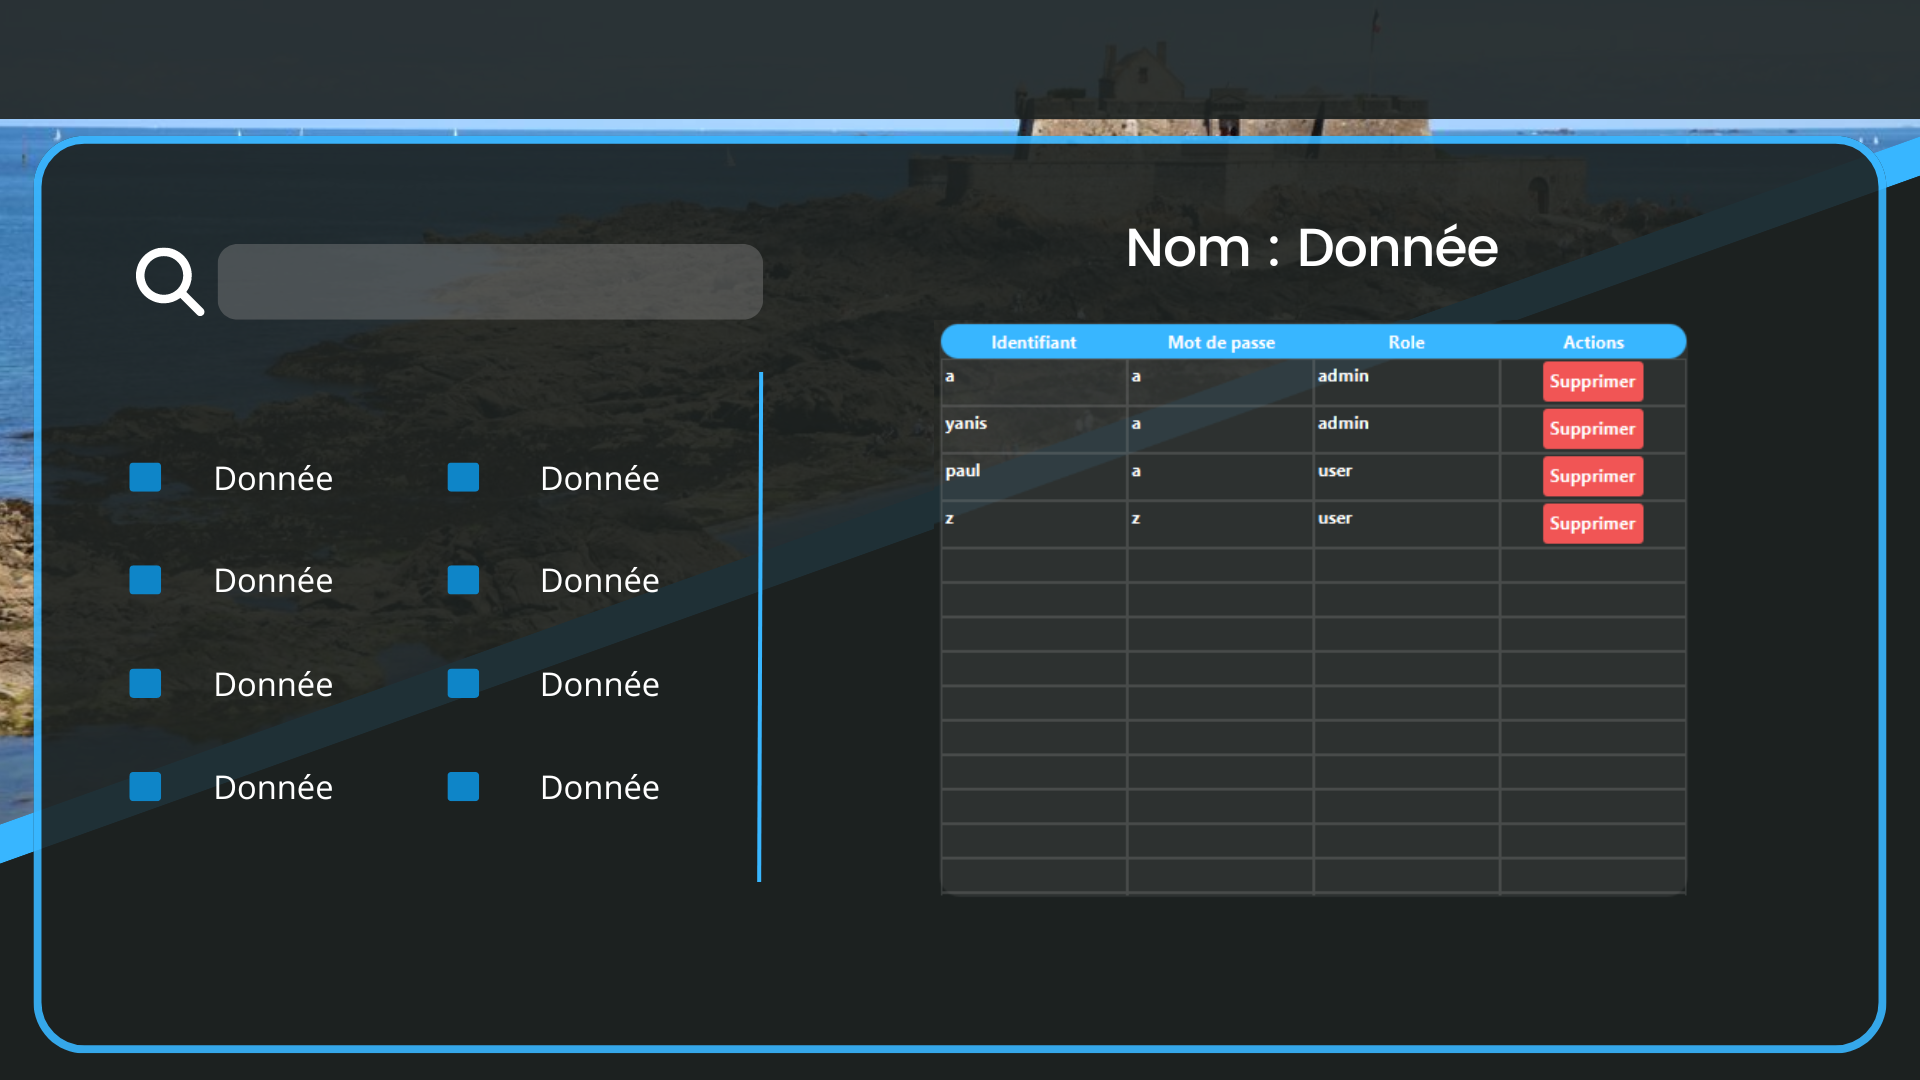
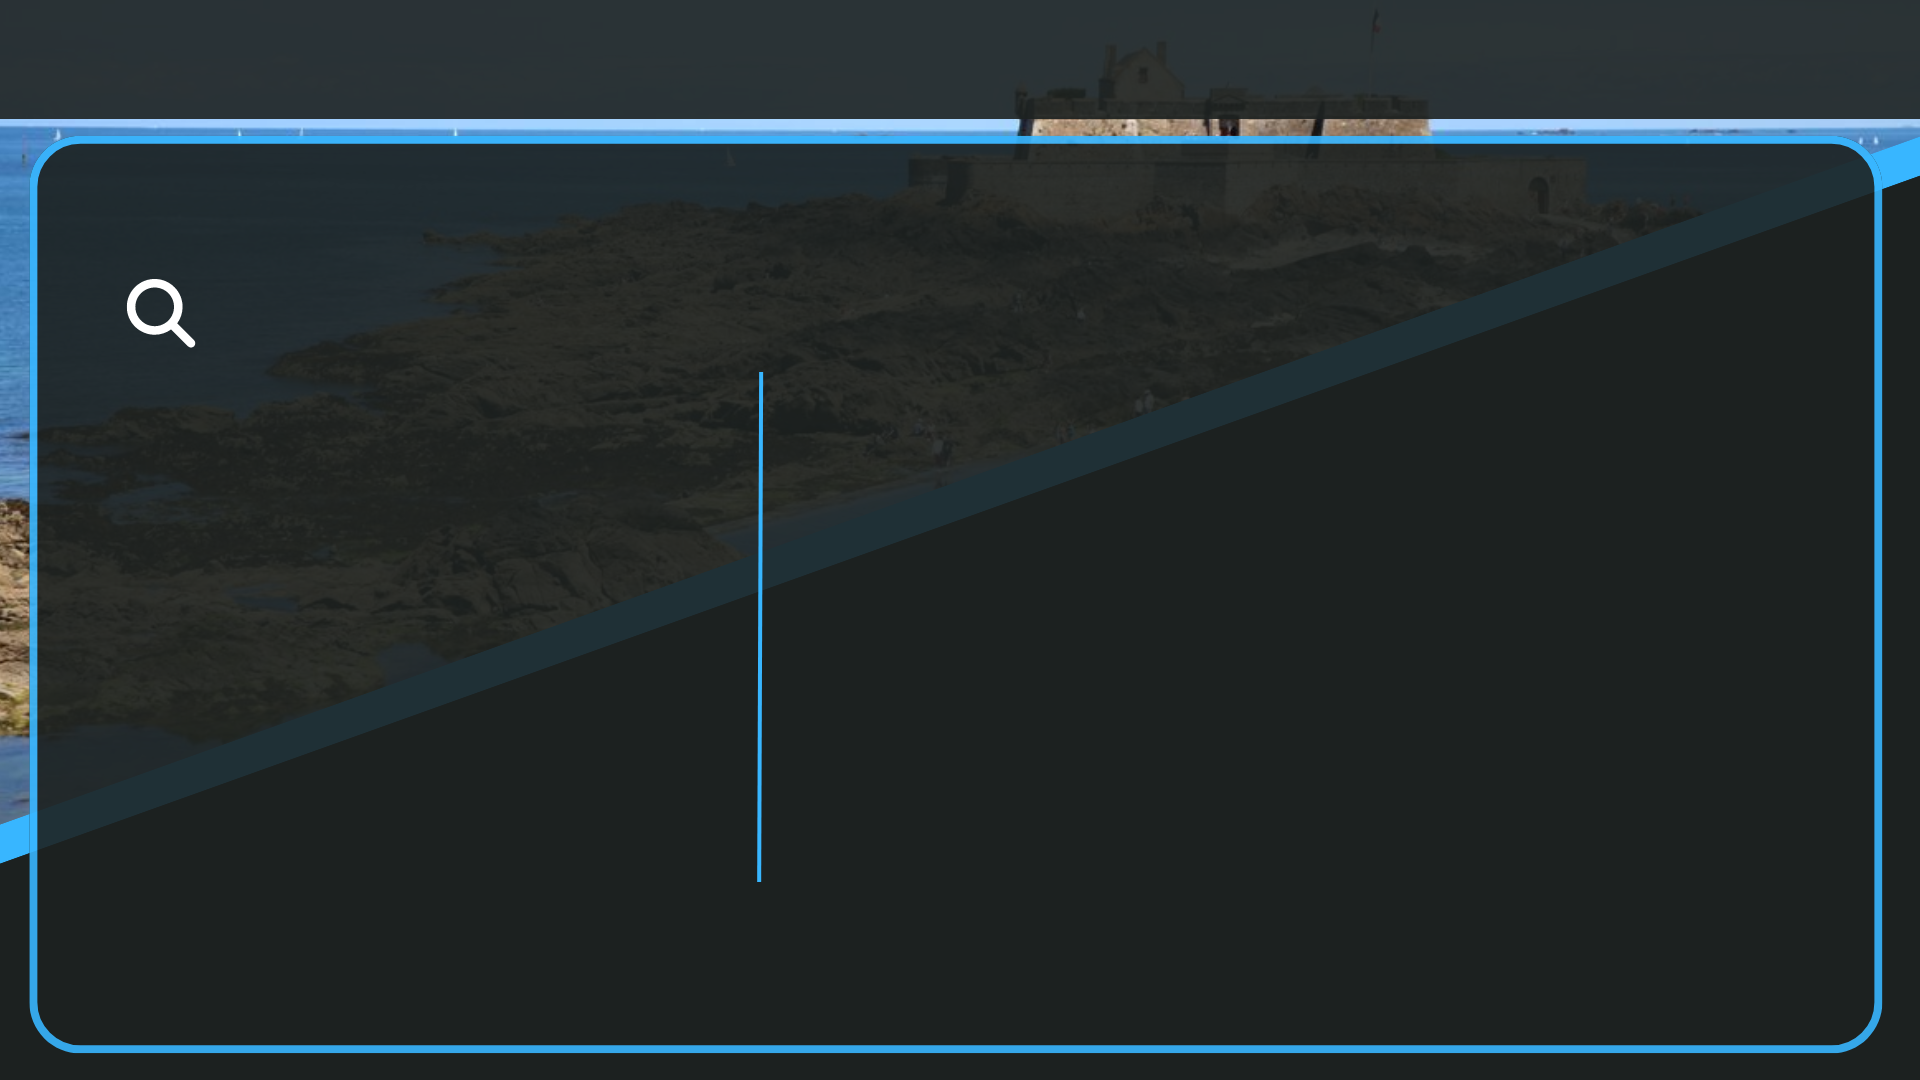
donnee

diff --git a/Application/AppVS/class/resource/app.css b/Application/AppVS/class/resource/app.css
@@ -179,6 +179,28 @@
     -fx-font-weight: bold;
 }
 
+.table-view .scroll-bar {
+    -fx-background-color: #8b8b8b00;
+}
+
+/* Style the thumb (the draggable part of the scrollbar) */
+.table-view .scroll-bar .thumb {
+    -fx-background-color: #888;
+    -fx-background-radius: 10px;
+}
+
+/* Style the track (the "path" the thumb slides on) */
+.table-view .scroll-bar .track {
+    -fx-background-color: #555;
+    -fx-background-radius: 10px;
+}
+
+/* Style the buttons at the ends of the scrollbar (if present) */
+.table-view .scroll-bar .increment-button,
+.table-view .scroll-bar .decrement-button {
+    -fx-background-color: #666;
+}
+
 .table-view .table-cell:selected {
     -fx-background-color: #1f6892;
     -fx-text-fill: #ffffff;
@@ -191,4 +213,31 @@
     -fx-font-weight: bold;
     -fx-padding: 5px;
     -fx-border-radius: 5px;
+}
+
+/* Style for CheckBox */
+.my-checkbox {
+    -fx-text-fill: #ffffff;
+    -fx-font-size: 15px;
+    -fx-font-weight: bold;
+}
+
+.my-checkbox .box {
+    -fx-background-color: #38B6FF;
+    -fx-padding: 5px;
+    -fx-border-radius: 5px;
+}
+
+.my-checkbox .box:hover {
+    -fx-background-color: #1f6892;
+}
+
+.my-checkbox .box:selected {
+    -fx-background-color: #1f6892;
+}
+
+.my-label-titre {
+    -fx-font-size: 30px;
+    -fx-font-weight: bold;
+    -fx-text-fill: #ffffff;
 }

diff --git a/Application/AppVS/src/resource/app.css b/Application/AppVS/src/resource/app.css
@@ -179,6 +179,28 @@
     -fx-font-weight: bold;
 }
 
+.table-view .scroll-bar {
+    -fx-background-color: #8b8b8b00;
+}
+
+/* Style the thumb (the draggable part of the scrollbar) */
+.table-view .scroll-bar .thumb {
+    -fx-background-color: #888;
+    -fx-background-radius: 10px;
+}
+
+/* Style the track (the "path" the thumb slides on) */
+.table-view .scroll-bar .track {
+    -fx-background-color: #555;
+    -fx-background-radius: 10px;
+}
+
+/* Style the buttons at the ends of the scrollbar (if present) */
+.table-view .scroll-bar .increment-button,
+.table-view .scroll-bar .decrement-button {
+    -fx-background-color: #666;
+}
+
 .table-view .table-cell:selected {
     -fx-background-color: #1f6892;
     -fx-text-fill: #ffffff;
@@ -191,4 +213,31 @@
     -fx-font-weight: bold;
     -fx-padding: 5px;
     -fx-border-radius: 5px;
+}
+
+/* Style for CheckBox */
+.my-checkbox {
+    -fx-text-fill: #ffffff;
+    -fx-font-size: 15px;
+    -fx-font-weight: bold;
+}
+
+.my-checkbox .box {
+    -fx-background-color: #38B6FF;
+    -fx-padding: 5px;
+    -fx-border-radius: 5px;
+}
+
+.my-checkbox .box:hover {
+    -fx-background-color: #1f6892;
+}
+
+.my-checkbox .box:selected {
+    -fx-background-color: #1f6892;
+}
+
+.my-label-titre {
+    -fx-font-size: 30px;
+    -fx-font-weight: bold;
+    -fx-text-fill: #ffffff;
 }

diff --git a/Application/AppVS/src/app/view/Donnee.java b/Application/AppVS/src/app/view/Donnee.java
@@ -1,8 +1,10 @@
 package app.view;
 import javafx.stage.Stage;
-import javafx.scene.Scene;
-import javafx.scene.control.Button;
 
+import java.util.ArrayList;
+
+import javafx.scene.Scene;
+import javafx.scene.control.*;
 import javafx.scene.image.Image;
 import javafx.scene.layout.*;
 import resource.utils.*;;
@@ -12,6 +14,9 @@ public class Donnee extends Pane {
     private BackgroundImage background;
     private NavBarre navBarre;
     private Stage primaryStage;
+    private CheckBox tri1, tri2, tri3, tri4, tri5, tri6, tri7, tri8;
+    private Label donneLabel;
+    private TextField searchField;
 
     public Donnee(Stage primaryStage) {
         this.primaryStage = primaryStage;
@@ -20,6 +25,20 @@ public class Donnee extends Pane {
         this.background = new BackgroundImage(this.backgroundImage, BackgroundRepeat.NO_REPEAT, BackgroundRepeat.NO_REPEAT, BackgroundPosition.CENTER, new BackgroundSize(100, 100, true, true, false, true));
         
         this.navBarre = new NavBarre(true, true);
+        initUIComponents();
+    }
+
+    public void initUIComponents() {
+        this.tri1 = new CheckBox("Tri 1");
+        this.tri2 = new CheckBox("Tri 2");
+        this.tri3 = new CheckBox("Tri 3");
+        this.tri4 = new CheckBox("Tri 4");
+        this.tri5 = new CheckBox("Tri 5");
+        this.tri6 = new CheckBox("Tri 6");
+        this.tri7 = new CheckBox("Tri 7");
+        this.tri8 = new CheckBox("Tri 8");
+        this.donneLabel = new Label("Données");
+        this.searchField = new TextField();
     }
 
 
@@ -44,8 +63,73 @@ public class Donnee extends Pane {
 
     private void configurerComposants(Pane root) {
         root.getChildren().add(this.navBarre);
+        configurerLabel(this.donneLabel, 790, 135, 200, 50, "my-label-titre", root);
+        configurerTextField(this.searchField, 135, 180, 350, 50, "Rechercher", "my-field-user-con", root);
+        
+        ArrayList<CheckBox> checkBoxes = new ArrayList<>();
+        checkBoxes.add(this.tri1);
+        checkBoxes.add(this.tri2);
+        checkBoxes.add(this.tri3);
+        checkBoxes.add(this.tri4);
+        checkBoxes.add(this.tri5);
+        checkBoxes.add(this.tri6);
+        checkBoxes.add(this.tri7);
+        checkBoxes.add(this.tri8);
+    
+        for (CheckBox checkBox : checkBoxes) {
+            checkBox.selectedProperty().addListener((obs, wasPreviouslySelected, isNowSelected) -> {
+                if (isNowSelected) {
+                    for (CheckBox otherCheckBox : checkBoxes) {
+                        if (otherCheckBox != checkBox) {
+                            otherCheckBox.setSelected(false);
+                        }
+                    }
+                }
+            });
+        }
+    
+        int x = 50;
+        int y = 320;
+        for (int i = 0; i < checkBoxes.size(); i++) {
+            CheckBox checkBox = checkBoxes.get(i);
+            if (i % 2 == 0) {
+                x = 150;
+            } else {
+                x = 300;
+            }
+            configurerCheckBox(checkBox, x, y, 100, 50, "my-checkbox", root);
+            if (i % 2 != 0) {
+                y += 50;
+            }
+        }
+    }
+    
+    private void configurerCheckBox(CheckBox checkBox, int x, int y, int width, int height, String styleClass, Pane root) {
+        checkBox.setLayoutX(x);
+        checkBox.setLayoutY(y);
+        checkBox.setPrefWidth(width);
+        checkBox.setPrefHeight(height);
+        checkBox.getStyleClass().add(styleClass);
+        root.getChildren().add(checkBox);
     }
 
+    private void configurerLabel(Label label, int x, int y, int width, int height, String style, Pane root) {
+        label.setLayoutX(x);
+        label.setLayoutY(y);
+        label.setPrefSize(width, height);
+        label.getStyleClass().add(style);
+        root.getChildren().add(label);
+    }
+
+    private void configurerTextField(TextField champ, int x, int y, int largeur, int hauteur, String promptText, String styleClass, Pane root) {
+        champ.setLayoutX(x);
+        champ.setLayoutY(y);
+        champ.setPrefWidth(largeur);
+        champ.setPrefHeight(hauteur);
+        champ.setPromptText(promptText);
+        champ.getStyleClass().add(styleClass);
+        root.getChildren().add(champ);
+    }
 
 
     public void updateNavBarre(boolean estConnecte) {
@@ -58,6 +142,46 @@ public class Donnee extends Pane {
 
     public void setNavBarre(NavBarre navBarre) {
         this.navBarre = navBarre;
+    }
+
+    public CheckBox getTri1() {
+        return this.tri1;
+    }
+
+    public CheckBox getTri2() {
+        return this.tri2;
+    }
+
+    public CheckBox getTri3() {
+        return this.tri3;
+    }
+
+    public CheckBox getTri4() {
+        return this.tri4;
+    }
+
+    public CheckBox getTri5() {
+        return this.tri5;
+    }
+
+    public CheckBox getTri6() {
+        return this.tri6;
+    }
+
+    public CheckBox getTri7() {
+        return this.tri7;
+    }
+
+    public CheckBox getTri8() {
+        return this.tri8;
+    }
+
+    public Label getDonneLabel() {
+        return this.donneLabel;
+    }
+
+    public TextField getSearchField() {
+        return this.searchField;
     }
 
 }

diff --git a/Application/AppVS/src/app/view/admin/ModifierScene.java b/Application/AppVS/src/app/view/admin/ModifierScene.java
@@ -2,7 +2,6 @@ package app.view.admin;
 
 import app.view.NavBarre;
 import javafx.scene.Scene;
-import javafx.scene.control.*;
 import javafx.scene.image.Image;
 import javafx.scene.layout.*;
 import javafx.stage.Stage;
